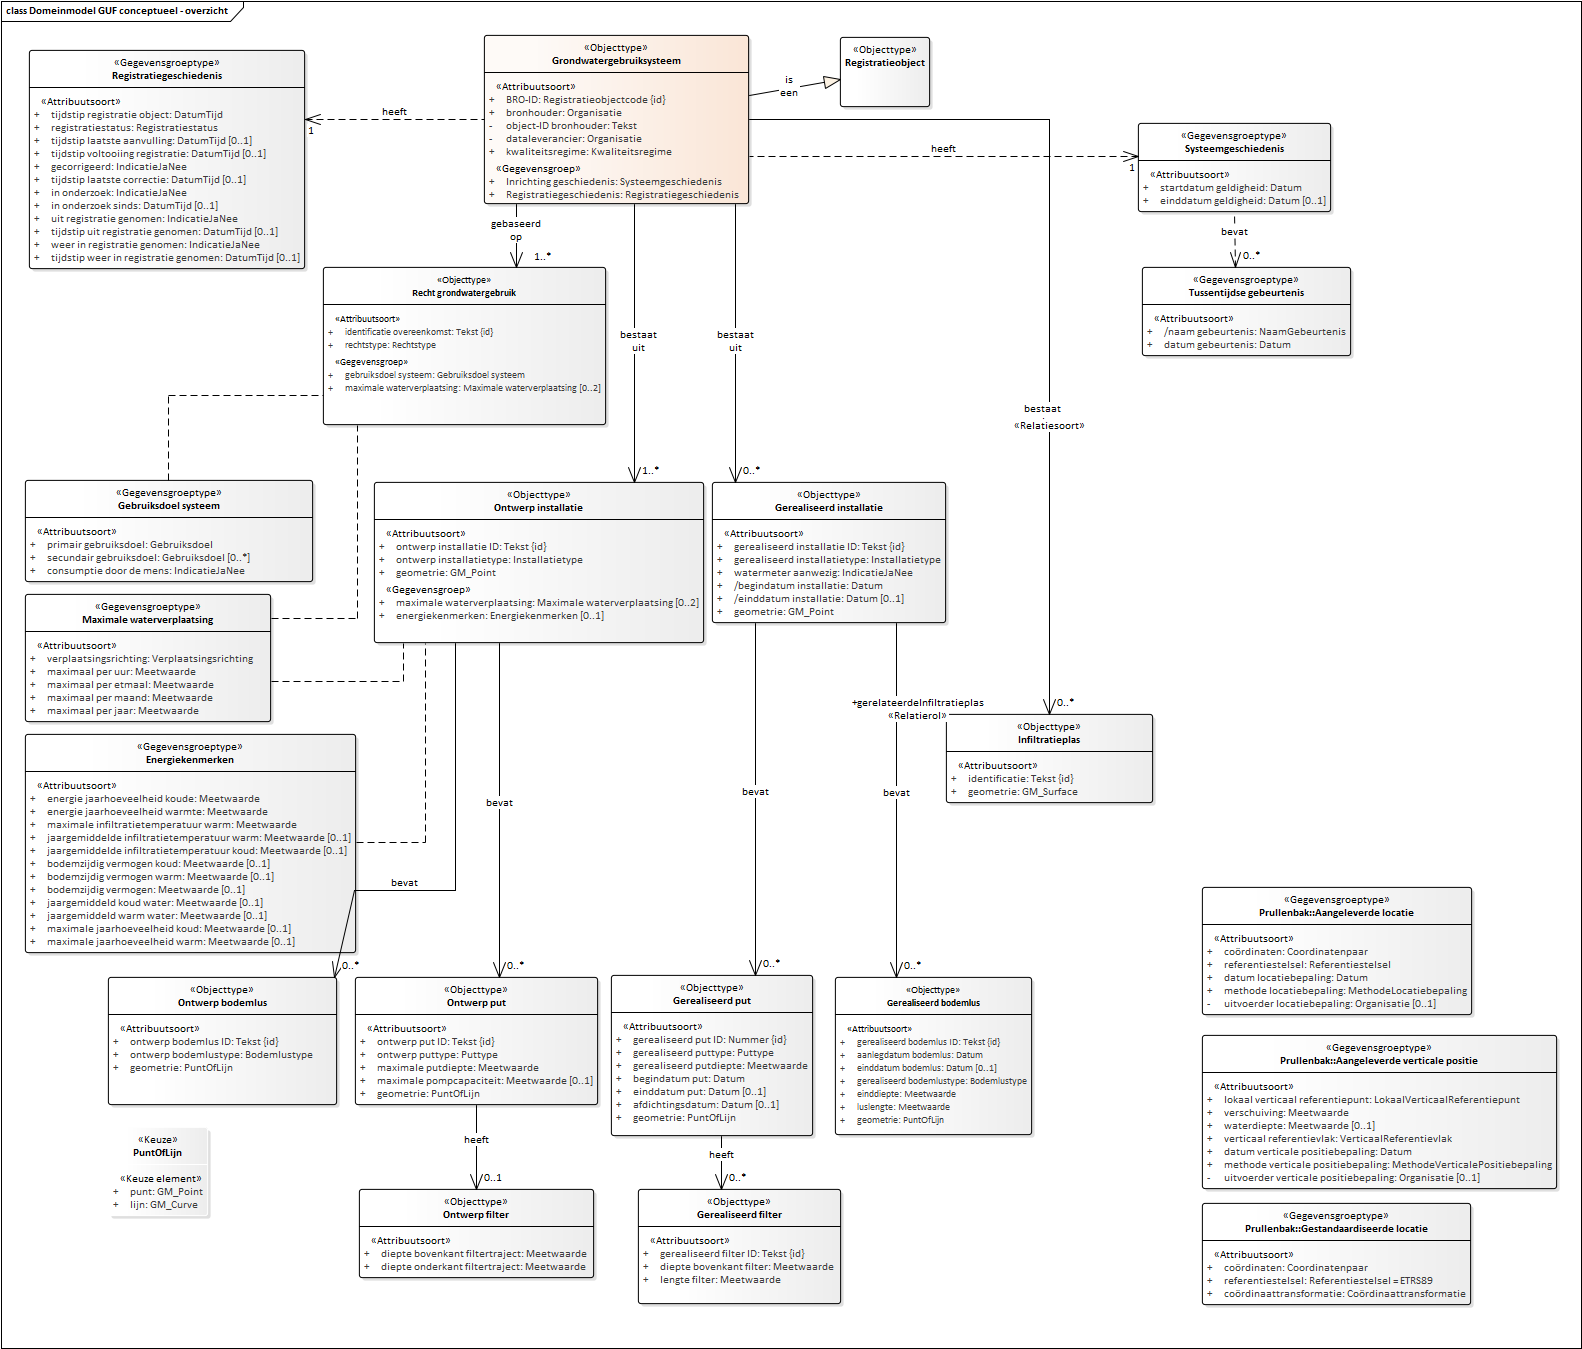
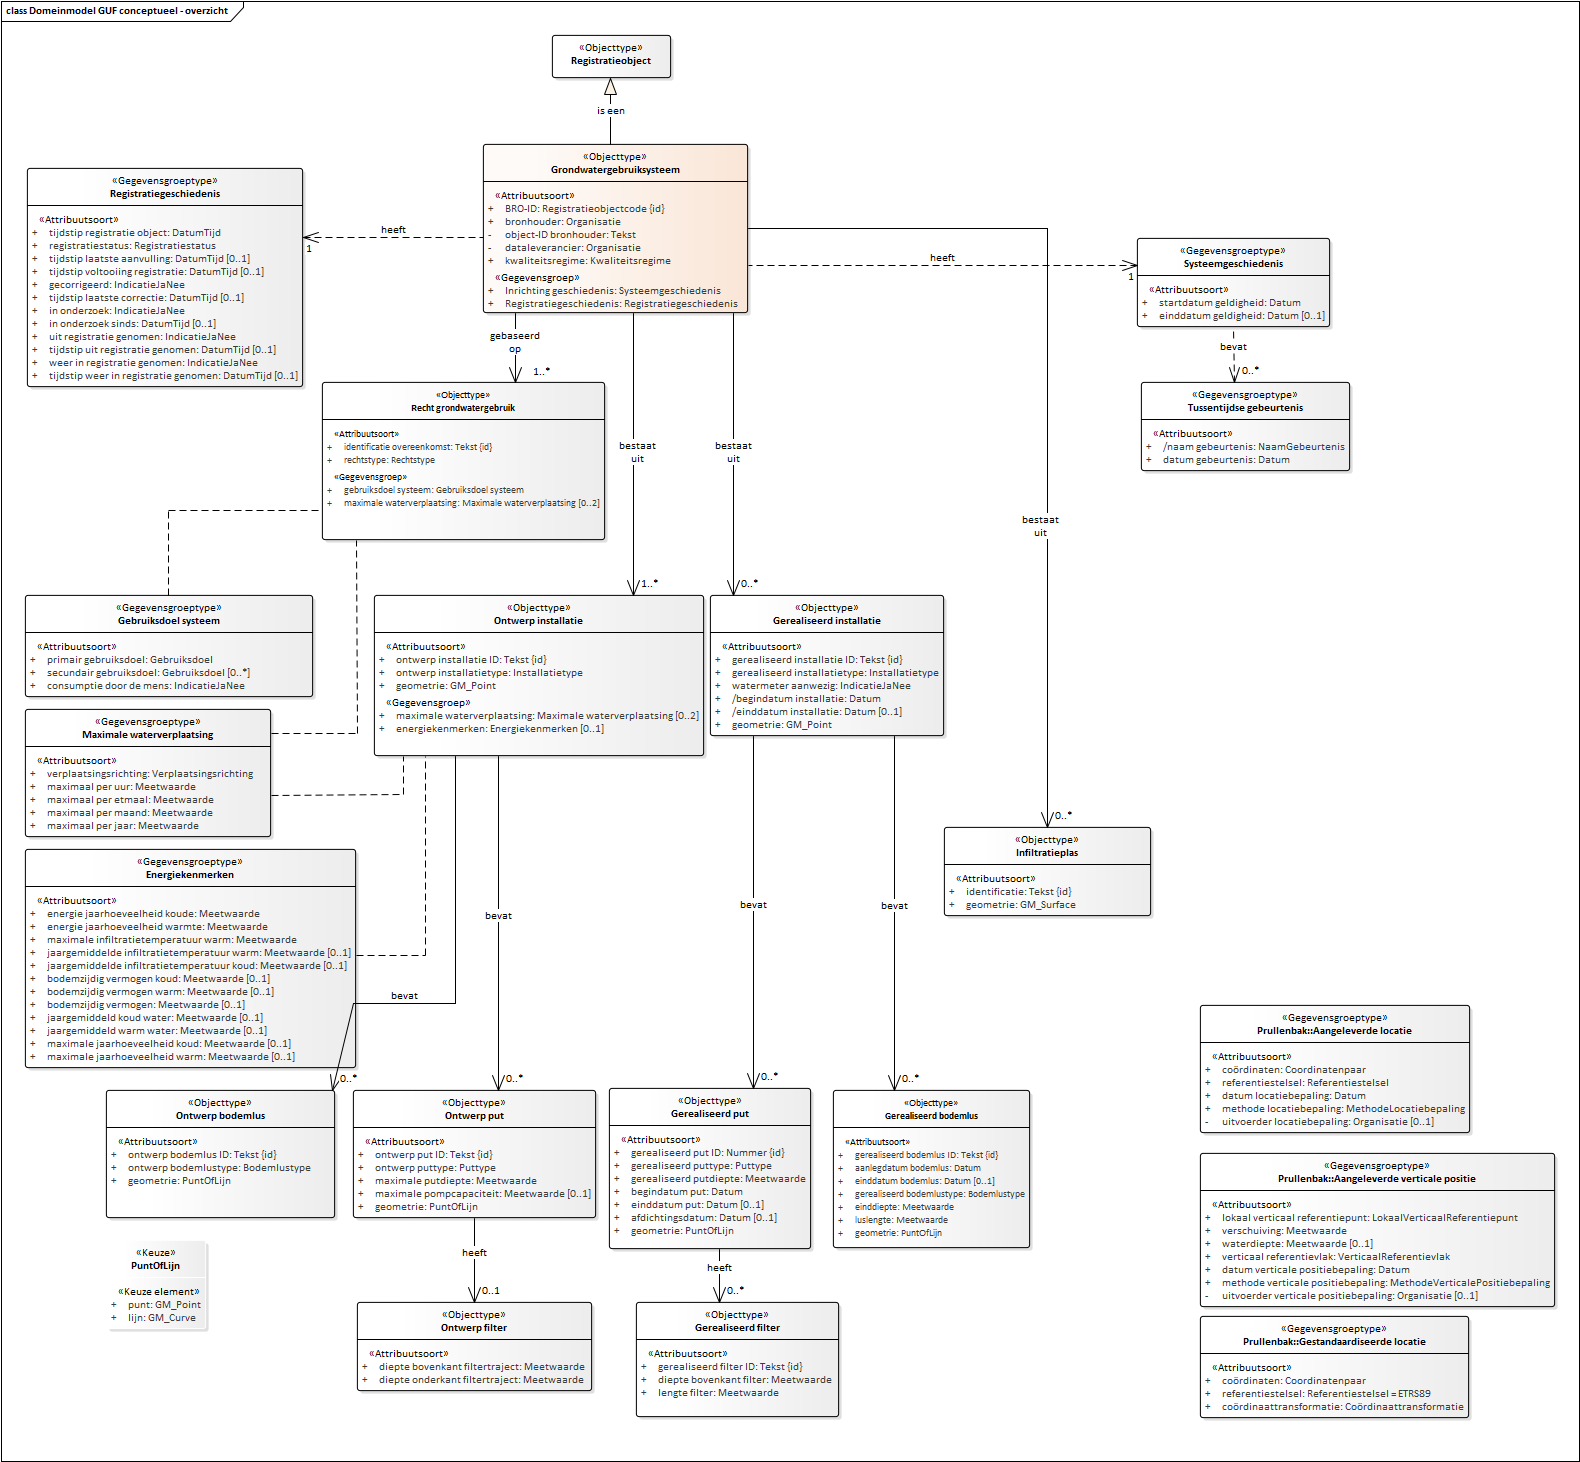
Conceptualmodel-GrondwatergebruikGUFconceptueel-0.1-1-20200401-20201203-153025

diff --git a/data/GUF-cat.msword.html b/data/GUF-cat.msword.html
@@ -15,7 +15,7 @@
    <body>
       <p>Conceptual model/Grondwatergebruik (GUF) conceptueel/20200401</p>
       <p>Imvertor: 1.62.1</p>
-      <p>Model release: Conceptualmodel-GrondwatergebruikGUFconceptueel-0.1-1-20200401-20201201-170925</p>
+      <p>Model release: Conceptualmodel-GrondwatergebruikGUFconceptueel-0.1-1-20200401-20201203-153025</p>
       <hr>
       <section>
          <h1>Artikel 1 Definitie van registratieobject, entiteiten en attributen</h1>
@@ -63,7 +63,7 @@
          <section>
             <h2>Het domeinmodel</h2>
             <section id="">
-               <div class="imageinfo overview"><img src="Images/EAID_56F5F935_4109_4da0_A034_9EA7B40769E1.png" usemap="#imagemap-EAID_56F5F935_4109_4da0_A034_9EA7B40769E1" alt="Diagram "><map name="imagemap-EAID_56F5F935_4109_4da0_A034_9EA7B40769E1"><area shape="rect" alt="Infiltratieplas" coords="946,714,1153,803" href="#graph_EAID_48E92D7E_DFE4_4e1a_9CBF_EF96B0324D5C"><area shape="rect" alt="Ontwerp filter" coords="359,1189,594,1278" href="#graph_EAID_F9C69DF7_57F6_4a2e_AB62_ABBE414B3C9B"><area shape="rect" alt="Tussentijdse gebeurtenis" coords="1142,267,1351,356" href="#graph_EAID_98E530BE_5699_451a_8FC6_9C326ADD0528"><area shape="rect" alt="Systeemgeschiedenis" coords="1138,123,1331,212" href="#graph_EAID_2BD94CFC_4D2B_498d_96DC_DF9DE395E7C4"><area shape="rect" alt="Ontwerp bodemlus" coords="108,977,337,1105" href="#graph_EAID_B81BCB5C_B9C7_42d9_9F9E_3F76580BB410"><area shape="rect" alt="Ontwerp put" coords="355,977,598,1105" href="#graph_EAID_FC483397_9430_4114_AE54_A7BE5A654EA9"><area shape="rect" alt="Energiekenmerken" coords="25,734,356,953" href="#graph_EAID_F60FFCA9_A741_4d37_8DFE_FC87122B9777"><area shape="rect" alt="Maximale waterverplaatsing" coords="25,594,271,722" href="#graph_EAID_D88F2231_8D52_4bac_AE7F_55102360A23B"><area shape="rect" alt="Gebruiksdoel systeem" coords="25,480,313,582" href="#graph_EAID_DB9B3E32_EE42_4c47_A5CC_5AE7B58A2D13"><area shape="rect" alt="Gerealiseerd installatie" coords="712,482,946,623" href="#graph_EAID_45C4EF5D_AC27_47cc_926D_7F514776B53D"><area shape="rect" alt="Gerealiseerd filter" coords="638,1189,841,1304" href="#graph_EAID_9D151445_53ED_4738_9920_071518BB50C1"><area shape="rect" alt="Recht grondwatergebruik" coords="323,267,606,425" href="#graph_EAID_1A591F8A_2ECC_4122_86C9_26BFA5C5420E"><area shape="rect" alt="Gerealiseerd put" coords="611,975,813,1136" href="#graph_EAID_F75BA1C9_02EB_48e6_B9A8_A018120E2279"><area shape="rect" alt="Gerealiseerd bodemlus" coords="835,977,1032,1135" href="#graph_EAID_D45703EE_CCD5_434c_A478_BFA48D1A9DCB"><area shape="rect" alt="Ontwerp installatie" coords="374,482,704,643" href="#graph_EAID_DB2636FB_090C_4af0_AA40_4301B23795E2"><area shape="rect" alt="Registratiegeschiedenis" coords="29,50,305,269" href="#graph_EAID_C00FA7D7_7F78_413d_80CC_8F5D41996171"><area shape="rect" alt="Grondwatergebruiksysteem" coords="484,35,749,204" href="#graph_EAID_048DC684_486B_4605_B9CA_40413DB3C9DC"><area shape="rect" alt="Registratieobject" coords="840,37,930,107" href="#graph_EAID_2AC7632D_D0CE_4468_8510_855B506BE12A"></map><p><b>Domeinmodel GUF conceptueel</b></p>
+               <div class="imageinfo overview"><img src="Images/EAID_56F5F935_4109_4da0_A034_9EA7B40769E1.png" usemap="#imagemap-EAID_56F5F935_4109_4da0_A034_9EA7B40769E1" alt="Diagram "><map name="imagemap-EAID_56F5F935_4109_4da0_A034_9EA7B40769E1"><area shape="rect" alt="Infiltratieplas" coords="944,827,1151,916" href="#graph_EAID_48E92D7E_DFE4_4e1a_9CBF_EF96B0324D5C"><area shape="rect" alt="Ontwerp filter" coords="357,1302,592,1391" href="#graph_EAID_F9C69DF7_57F6_4a2e_AB62_ABBE414B3C9B"><area shape="rect" alt="Tussentijdse gebeurtenis" coords="1141,382,1350,471" href="#graph_EAID_98E530BE_5699_451a_8FC6_9C326ADD0528"><area shape="rect" alt="Systeemgeschiedenis" coords="1137,238,1330,327" href="#graph_EAID_2BD94CFC_4D2B_498d_96DC_DF9DE395E7C4"><area shape="rect" alt="Ontwerp bodemlus" coords="106,1090,335,1218" href="#graph_EAID_B81BCB5C_B9C7_42d9_9F9E_3F76580BB410"><area shape="rect" alt="Ontwerp put" coords="353,1090,596,1218" href="#graph_EAID_FC483397_9430_4114_AE54_A7BE5A654EA9"><area shape="rect" alt="Energiekenmerken" coords="25,849,356,1068" href="#graph_EAID_F60FFCA9_A741_4d37_8DFE_FC87122B9777"><area shape="rect" alt="Maximale waterverplaatsing" coords="25,709,271,837" href="#graph_EAID_D88F2231_8D52_4bac_AE7F_55102360A23B"><area shape="rect" alt="Gebruiksdoel systeem" coords="25,595,313,697" href="#graph_EAID_DB9B3E32_EE42_4c47_A5CC_5AE7B58A2D13"><area shape="rect" alt="Gerealiseerd installatie" coords="710,595,944,736" href="#graph_EAID_45C4EF5D_AC27_47cc_926D_7F514776B53D"><area shape="rect" alt="Gerealiseerd filter" coords="636,1302,839,1417" href="#graph_EAID_9D151445_53ED_4738_9920_071518BB50C1"><area shape="rect" alt="Recht grondwatergebruik" coords="322,382,605,540" href="#graph_EAID_1A591F8A_2ECC_4122_86C9_26BFA5C5420E"><area shape="rect" alt="Gerealiseerd put" coords="609,1088,811,1249" href="#graph_EAID_F75BA1C9_02EB_48e6_B9A8_A018120E2279"><area shape="rect" alt="Gerealiseerd bodemlus" coords="833,1090,1030,1248" href="#graph_EAID_D45703EE_CCD5_434c_A478_BFA48D1A9DCB"><area shape="rect" alt="Ontwerp installatie" coords="374,595,704,756" href="#graph_EAID_DB2636FB_090C_4af0_AA40_4301B23795E2"><area shape="rect" alt="Registratiegeschiedenis" coords="27,168,303,387" href="#graph_EAID_C00FA7D7_7F78_413d_80CC_8F5D41996171"><area shape="rect" alt="Grondwatergebruiksysteem" coords="483,144,748,313" href="#graph_EAID_048DC684_486B_4605_B9CA_40413DB3C9DC"><area shape="rect" alt="Registratieobject" coords="552,35,671,78" href="#graph_EAID_2AC7632D_D0CE_4468_8510_855B506BE12A"></map><p><b>Domeinmodel GUF conceptueel</b></p>
                </div>
             </section>
          </section>
